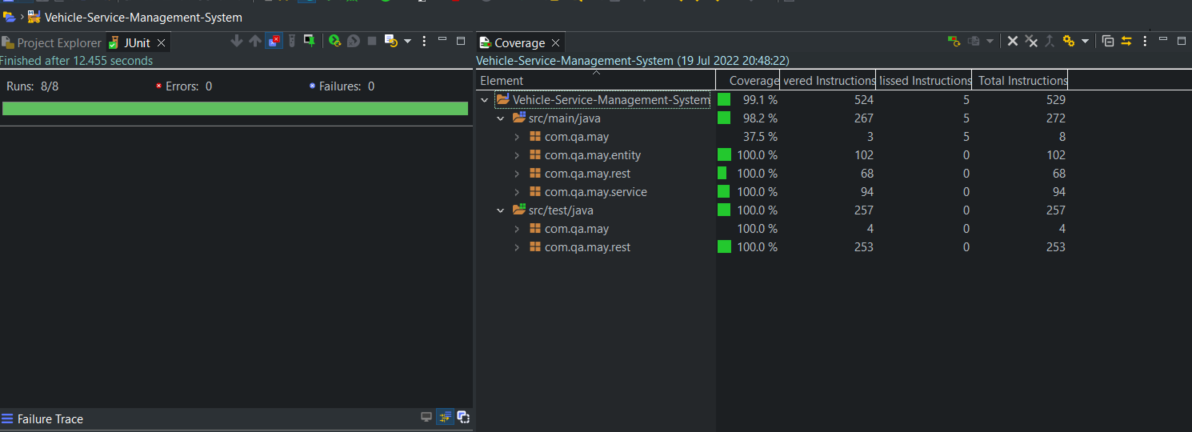
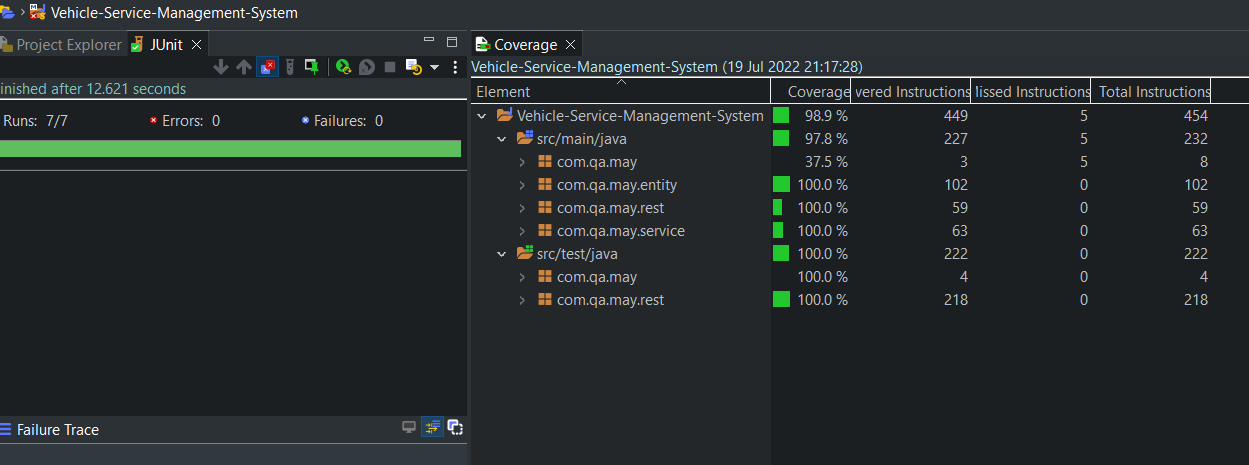
More cleaning of unnecassary codes and replacing documents

diff --git a/src/main/java/com/qa/may/rest/VehicleController.java b/src/main/java/com/qa/may/rest/VehicleController.java
@@ -2,15 +2,12 @@ package com.qa.may.rest;
 
 import java.util.List;
 
-import javax.websocket.server.PathParam;
-
 import org.springframework.beans.factory.annotation.Autowired;
 import org.springframework.http.HttpStatus;
 import org.springframework.http.ResponseEntity;
 import org.springframework.web.bind.annotation.CrossOrigin;
 import org.springframework.web.bind.annotation.DeleteMapping;
 import org.springframework.web.bind.annotation.GetMapping;
-import org.springframework.web.bind.annotation.PatchMapping;
 import org.springframework.web.bind.annotation.PathVariable;
 import org.springframework.web.bind.annotation.PostMapping;
 import org.springframework.web.bind.annotation.PutMapping;
@@ -19,6 +16,7 @@ import org.springframework.web.bind.annotation.RestController;
 
 import com.qa.may.entity.Vehicle;
 import com.qa.may.service.VehicleService;
+
 @CrossOrigin
 @RestController
 public class VehicleController {
@@ -54,17 +52,11 @@ public class VehicleController {
 
 	}
 
-	@PatchMapping("/updateByPatch/{id}")
-	public Vehicle updateByPatch(@PathVariable("id") int id, @PathParam("vrm") String vrm, @PathParam("mileage") Integer mileage, 
-			@PathParam("description") String description, @PathParam("cost") Double cost) {
-
-		return this.service.updateByPatch(id, vrm, mileage, description, cost);
-	}
-
 	@PutMapping("/update/{id}")
 	public Vehicle update(@PathVariable("id") int id, @RequestBody Vehicle vehicle) {
 
-		return this.service.update(id, vehicle.getVrm(), vehicle.getMileage(), vehicle.getDescription(), vehicle.getCost());
+		return this.service.update(id, vehicle.getVrm(), vehicle.getMileage(), vehicle.getDescription(),
+				vehicle.getCost());
 	}
 
 	@DeleteMapping("/remove/{id}")

diff --git a/src/test/java/com/qa/may/rest/VehicleControllerIntegrationTest.java b/src/test/java/com/qa/may/rest/VehicleControllerIntegrationTest.java
@@ -2,7 +2,6 @@ package com.qa.may.rest;
 
 import static org.springframework.test.web.servlet.request.MockMvcRequestBuilders.delete;
 import static org.springframework.test.web.servlet.request.MockMvcRequestBuilders.get;
-import static org.springframework.test.web.servlet.request.MockMvcRequestBuilders.patch;
 import static org.springframework.test.web.servlet.request.MockMvcRequestBuilders.post;
 import static org.springframework.test.web.servlet.request.MockMvcRequestBuilders.put;
 import static org.springframework.test.web.servlet.result.MockMvcResultMatchers.content;
@@ -62,16 +61,6 @@ public class VehicleControllerIntegrationTest {
 
 		this.mvc.perform(put("/update/1").content(toJSON).contentType(MediaType.APPLICATION_JSON)).andExpect(checkBody)
 				.andExpect(status().isOk());
-	}
-
-	@Test
-	void testUpdateByPatch() throws Exception {
-		Vehicle updatedVehicle = new Vehicle(1, "LM68ESN", 1000, "Serviced", 9.99);
-		String toJSON = this.mapper.writeValueAsString(updatedVehicle);
-		ResultMatcher checkBody = MockMvcResultMatchers.content().json(toJSON);
-
-		this.mvc.perform(patch("/updateByPatch/1?vrm=LM68ESN&mileage=1000&description=Serviced&cost=9.99"))
-				.andExpect(checkBody).andExpect(status().isOk());
 	}
 
 	@Test

diff --git a/src/main/java/com/qa/may/service/VehicleServiceDB.java b/src/main/java/com/qa/may/service/VehicleServiceDB.java
@@ -42,21 +42,6 @@ public class VehicleServiceDB implements VehicleService {
 	}
 
 	@Override
-	public Vehicle updateByPatch(int id, String vrm, Integer mileage, String description, Double cost) {
-		Vehicle toUpdate = this.getById(id);
-
-		if (vrm != null)
-			toUpdate.setVrm(vrm);
-		if (mileage != 0)
-			toUpdate.setMileage(mileage);
-		if (description != null)
-			toUpdate.setDescription(description);
-		if (cost != null)
-			toUpdate.setCost(cost);
-		return this.repo.save(toUpdate);
-	}
-
-	@Override
 	public Vehicle update(int id, String vrm, Integer mileage, String description, Double cost) {
 
 		Vehicle toUpdate = this.getById(id);

diff --git a/src/main/java/com/qa/may/service/VehicleService.java b/src/main/java/com/qa/may/service/VehicleService.java
@@ -16,8 +16,6 @@ public interface VehicleService {
 
 	void delete(int id);
 
-	Vehicle updateByPatch(int id, String vrm, Integer mileage, String description, Double cost);
-
 	Vehicle update(int id, String vrm, Integer mileage, String description, Double cost);
 
 }

diff --git a/readme.md b/readme.md
@@ -72,9 +72,9 @@ Jira Kanban board and GitHub was used for project management including GitHub Sm
 
 ### Test Coverage 
 
-##### 98.2%
+##### 97.8%
 
-![Test-Coverage](https://user-images.githubusercontent.com/97620234/179836737-d4f19721-fbe9-4a49-8142-38cc97d9e46b.png)
+![Test-Coverage](https://user-images.githubusercontent.com/97620234/179840696-b04938b7-cb13-4be0-9eb7-24d6b187cfe9.png)
 
 ### Running the tests
 
